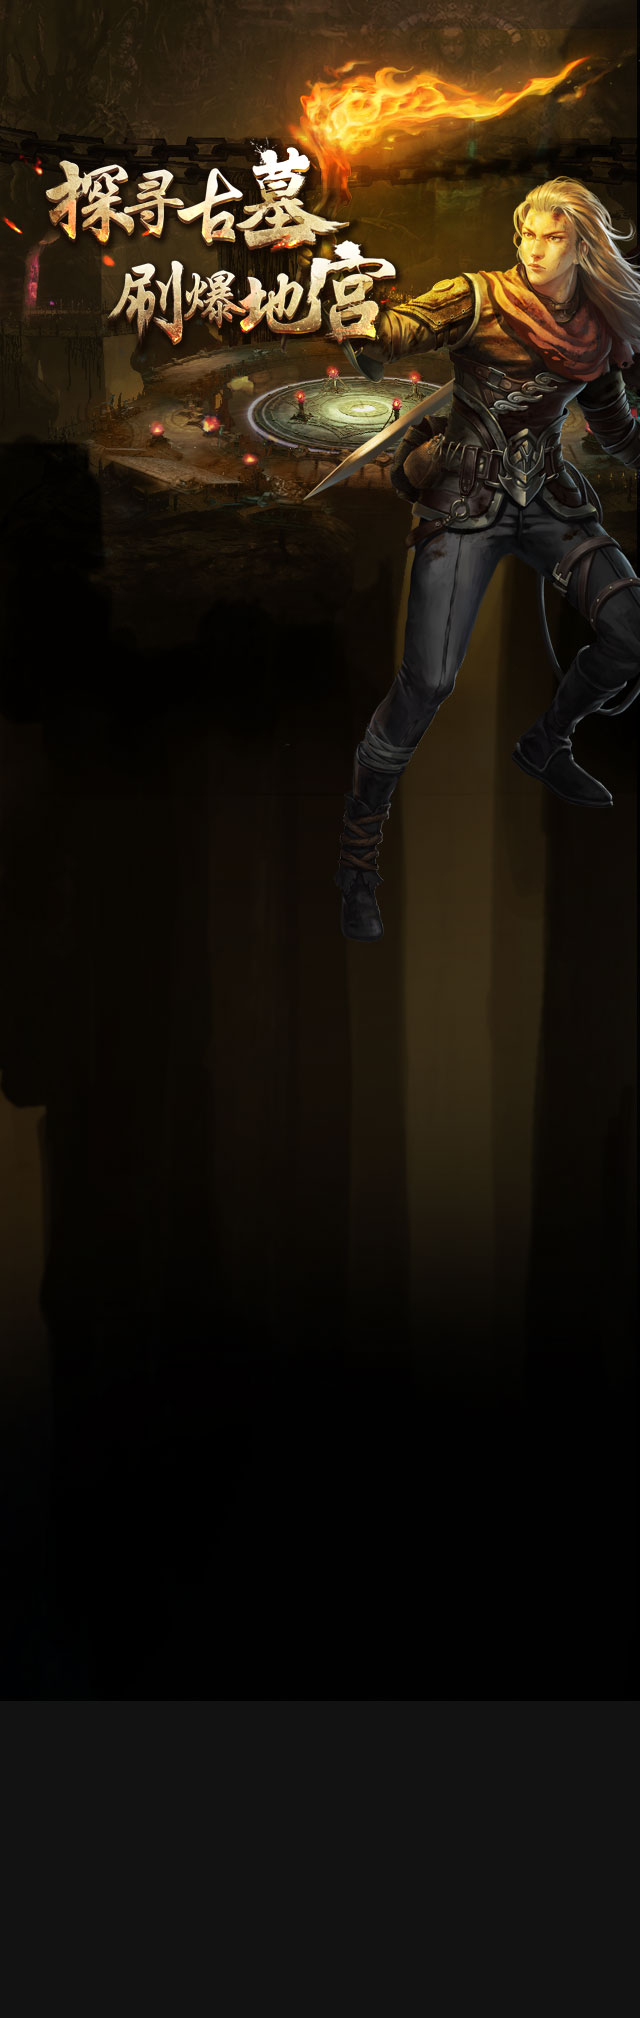
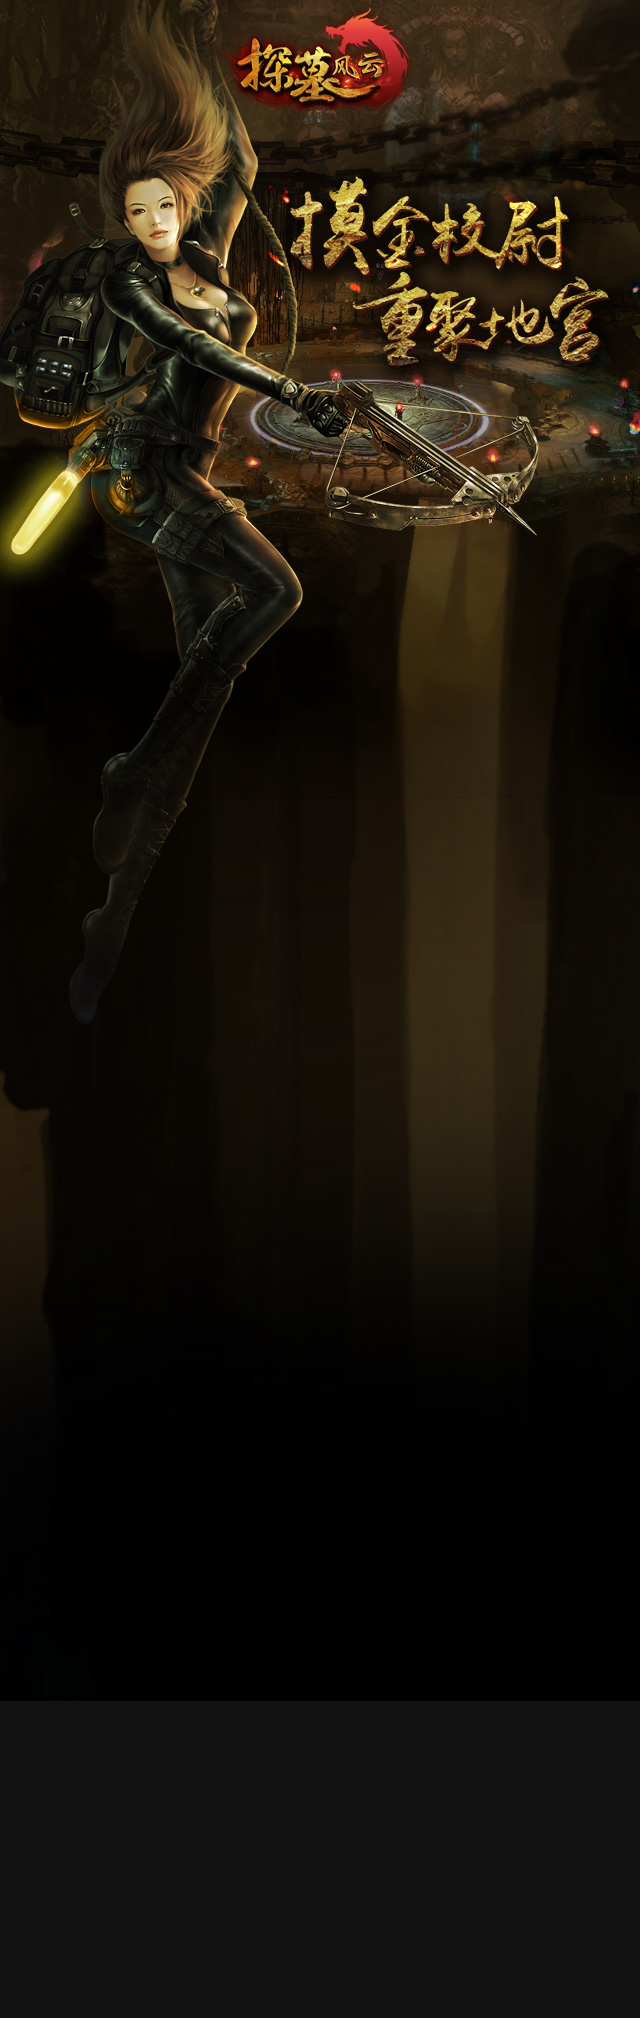
m轮播图

diff --git a/index.html b/index.html
@@ -25,7 +25,7 @@
 
 <body>
     <div class="logo">
-        <img src="img/logo.png" alt="logo">
+    
     </div>
     <div class="button">
         <img src="img/button.png" alt="" class="only">
@@ -43,19 +43,19 @@
             <div class="slide">
                 <ul class="img">
                     <li>
-                        <img src="img/222.jpg" alt="">
+                        <img src="img/2.jpg" alt="">
                     </li>
                     <li>
-                        <img src="img/333.jpg" alt="">
+                        <img src="img/3.jpg" alt="">
                     </li>
                     <li>
-                        <img src="img/444.jpg" alt="">
+                        <img src="img/4.jpg" alt="">
                     </li>
                     <li>
-                        <img class="cur" src="img/555.jpg" alt="">
+                        <img class="cur" src="img/5.jpg" alt="">
                     </li>
                     <li>
-                        <img class="cur" src="img/zhuanjia.jpg" alt="">
+                        <img class="cur" src="img/1.jpg" alt="">
                     </li>
                 </ul>
                 <!-- <ul class="dots">

diff --git a/css/style.css b/css/style.css
@@ -36,8 +36,8 @@ body {
 }
 .button{
     position: absolute;
-    top: 350px;
-    left: 163px;
+    top: 360px;
+    left: 483px;
 }
 ul.nav li.luntan {
     background: url(../img/luntan.jpg) no-repeat 0 0;

diff --git a/css/homepage.css b/css/homepage.css
@@ -12,7 +12,7 @@ div.wrap_outer {
     margin-bottom: 10px;
 }
 .wrap_inner .img {
-    margin-left: 21px;
+    margin-left: 20px;
     width: 100%;
     height: 260px;
     margin-top: 525px;
